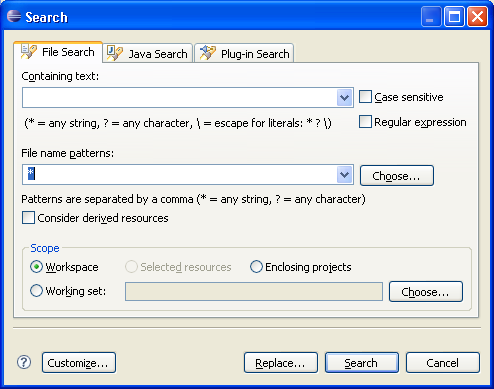
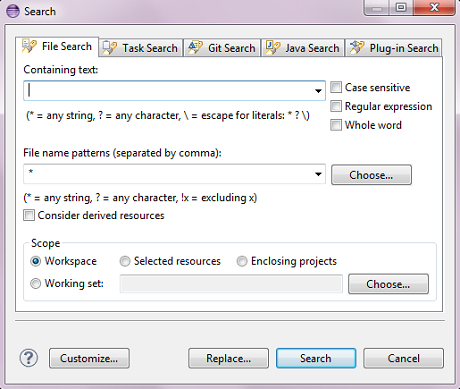
Bug 407385 - Update F1 Help and documentation for new features. Updated for Kepler(4.3) M1-M7 N&N features of JDT, Platform Text and Search.

diff --git a/bundles/org.eclipse.jdt.doc.user/reference/preferences/java/compiler/ref-preferences-errors-warnings.htm b/bundles/org.eclipse.jdt.doc.user/reference/preferences/java/compiler/ref-preferences-errors-warnings.htm
@@ -985,6 +985,23 @@ use raw types in the first place.</p>
 	</tr>
 	<tr>
 		<td valign="top" style="padding-left: 2em;">
+		<p>'@NonNull' parameter not annotated in overriding method</p>
+		</td>
+		<td valign="top">
+		<p>When enabled, the compiler will issue an error or a warning against a parameter of a method that overrides an inherited method if all of the following hold:</p>
+		<ul>
+		<li>The overridden method declares the corresponding parameter as non-null.</li>
+		<li>The parameter in the overriding method has no null annotation.</li>
+		<li>The overriding method is not affected by a nullness default.</li>
+		<li>Inheritance of null annotations is disabled.</li>
+		</ul>
+		</td>
+		<td valign="top">
+		<p>Warning</p>
+		</td>
+	</tr>
+	<tr>
+		<td valign="top" style="padding-left: 2em;">
 		<p>Missing '@NonNullByDefault' annotation on package</p>
 		</td>
 		<td valign="top">
@@ -1009,13 +1026,13 @@ use raw types in the first place.</p>
 		<p>You can specify different annotation names to use in your projects, but be aware that the Eclipse compiler only supports the semantics
 		specified in the default annotations:</p>
 		<ul>
-			<li><b>org.eclipse.jdt.annotation.Nullable</b>: A fully qualified name of a Java annotation type, which when applied to a type in a method signature or variable declaration, 
+			<li><b>org.eclipse.jdt.annotation.Nullable</b>: A fully qualified name of a Java annotation type, which when applied to a type in a method signature, variable declaration or field declaration, 
 				will be interpreted as a specification that null is a legal value in that position.<br>
-				Currently supported positions are: method parameters, method return type and local variables.
+				Currently supported positions are: method parameters, method return type, local variables and fields.
 			</li>
-			<li><b>org.eclipse.jdt.annotation.NonNull</b>: A fully qualified name of a Java annotation type, which when applied to a type in a method signature or variable declaration, 
+			<li><b>org.eclipse.jdt.annotation.NonNull</b>: A fully qualified name of a Java annotation type, which when applied to a type in a method signature, variable declaration or field declaration, 
 				will be interpreted as a specification that null is <b>not</b> a legal value in that position.<br>
-				Currently supported positions are: method parameters, method return type and local variables.
+				Currently supported positions are: method parameters, method return type, local variables and fields.
 			</li>
 			<li>
 				<b>org.eclipse.jdt.annotation.NonNullByDefault</b>: A fully qualified name of a Java annotation type. When applied to an element without an annotation argument, 
@@ -1042,6 +1059,18 @@ use raw types in the first place.</p>
 	 	  <p>If different implicit null annotations (from a nonnull default and/or overridden methods) are applicable
 	 		to the same type in a method signature, this is flagged as an error 
 	 		and an explicit null annotation must be used to disambiguate.</p>
+		</td>
+		<td valign="top">
+		<p>Off</p>
+		</td>
+	</tr>
+	<tr id="syntactic_null_analysis_for_fields">
+		<td valign="top" style="padding-left: 2em;">
+		<p>Enable syntactic null analysis for fields</p>
+		</td>
+		<td valign="top">
+		<p>When enabled, the compiler will detect certain syntactic constellations where a null related warning against a field reference 
+		would normally be raised but can be suppressed at low risk given that the same field reference was known to be non-null immediately before.</p>
 		</td>
 		<td valign="top">
 		<p>Off</p>

diff --git a/bundles/org.eclipse.jdt.doc.user/reference/ref-java-editor-quickassist.htm b/bundles/org.eclipse.jdt.doc.user/reference/ref-java-editor-quickassist.htm
@@ -101,6 +101,26 @@
 
         <tr>
           <td class="c3" width="15%">
+            Convert to if-!-return
+          </td>
+          <td class="c4" width="34%">
+            <code>if (x == 1) a();</code>
+          </td>
+          <td class="c3">
+            &gt;
+          </td>
+          <td class="c3" width="34%">
+            <code>if (x != 1) return; <br />
+           	a();
+            </code>
+          </td>
+          <td class="c3" width="15%">
+            On an 'if' statement
+          </td>
+        </tr>
+        
+        <tr>
+          <td class="c3" width="15%">
             Inverse boolean expression
           </td>
           <td class="c4" width="34%">
@@ -493,6 +513,36 @@
         </tr>
         <tr>
           <td class="c3" width="15%">
+            Convert if-else to switch
+          </td>
+          
+		  <td class="c3" width="34%">
+            <code>if (kind == 1) {<br />
+            &nbsp;&nbsp;return -1;<br />
+            } else if (kind == 2) {<br />
+            &nbsp;&nbsp;return -2;<br />
+            }</code>
+
+          </td>          
+          
+          <td class="c3">
+            &gt;
+          </td>
+
+		  <td class="c4" width="34%">
+            <code>switch (kind) {<br />
+
+            case 1: return -1;<br />
+            case 2: return -2;<br />
+            }</code>
+          </td>
+          
+          <td class="c3" width="15%">
+            On an 'if' statement
+          </td>
+        </tr>
+        <tr>
+          <td class="c3" width="15%">
             Add missing case statements on enums
           </td>
           <td class="c4" width="34%">
@@ -710,6 +760,24 @@
           </td>
           <td class="c3" width="15%">
             On blocks, if/while/for statements
+          </td>
+        </tr>
+        <tr>
+          <td class="c3" width="15%">
+            Combine to single String
+          </td>
+          <td class="c4" width="34%">
+            <code>String phrase= "one" + " two " + "three";</code>
+          </td>
+          <td class="c3">
+            &gt;
+          </td>
+          <td class="c3" width="34%">
+            <code>String phrase= "one two three";</code>
+          </td>
+
+          <td class="c3" width="15%">
+            On a string concatenation expression
           </td>
         </tr>
         <tr>

diff --git a/bundles/org.eclipse.jdt.doc.user/tasks/task-using_null_annotations.htm b/bundles/org.eclipse.jdt.doc.user/tasks/task-using_null_annotations.htm
@@ -87,6 +87,7 @@ for its enhanced null analysis (which is disabled by default):
 <li>Method parameter</li>
 <li>Method return (syntactically a method annotation is used here)</li>
 <li>Local variables</li>
+<li>Fields</li>
 <li><em>(more to come in the future)</em></li>
 </ul>
 <p><code>@NonNullByDefault</code> is supported for</p>
@@ -288,14 +289,13 @@ If we exclude the third option (un-annotated types) then the compiler can rigoro
 flag <em>every</em> unsafe usage.
 </p>
 <p>
-The current implementation has two major limitations with regard to this goal:
+The current implementation has a major limitation with regard to this goal:
 <ul>
-<li>Null annotations are not yet supported for fields.</li>
 <li>The Java syntax doesn't allow annotations in some relevant locations,
 	a limitation that is addressed by JSR-308 (scheduled for Java 8).</li>
 </ul>
 <p>
-As of today and despite the current limitations, the vision of fully specified and
+As of today and despite the current limitation, the vision of fully specified and
 completely checked programs has already some implications that shaped the current
 analysis and the errors/warnings reported by the compiler.
 The details will be presented by explaining the rules that the compiler checks

diff --git a/bundles/org.eclipse.jdt.doc.user/reference/views/ref-view-javadoc.htm b/bundles/org.eclipse.jdt.doc.user/reference/views/ref-view-javadoc.htm
@@ -17,6 +17,9 @@
     <p>
       The Javadoc view shows the Javadoc of the element selected in the Java editor or in a Java view.
 	</p>
+	<p>
+      You can also click individual package names displayed in the header to see a package's Javadoc.
+	</p>
     <table border="1" cellspacing="0" cellpadding="5" width="100%" summary="Outline view">
       <caption>
       Javadoc View commands:
@@ -83,6 +86,21 @@
           <td valign="top">
             <p>
               Links the Javadoc view's input with the selection in the Java editor or in a Java view.
+            </p>
+          </td>
+        </tr>
+ 		<tr>
+          <td valign="top">
+            <img src="../../images/org.eclipse.jdt.ui/elcl16/sync_broken.png" alt="Link with Selection (showing last valid input)"/>
+          </td>
+          <td valign="top">
+            <p>
+              Link with Selection (showing last valid input)
+            </p>
+          </td>
+          <td valign="top">
+            <p>
+              Indicates that the Javadoc view's content is no longer in sync with the current selection.
             </p>
           </td>
         </tr>

diff --git a/bundles/org.eclipse.jdt.doc.user/reference/ref-wizard-annotation.htm b/bundles/org.eclipse.jdt.doc.user/reference/ref-wizard-annotation.htm
@@ -48,7 +48,10 @@
         <td align="left" valign="top">Enter a package to contain the new annotation. You can select either this option or the Enclosing Type option, below. Either type a valid
         package name or click <span class="control">Browse</span> to select a package via a dialog.</td>
 
-        <td align="left" valign="top">The package of the element that was selected when the wizard has been started.</td>
+        <td align="left" valign="top">The package of the element that was selected when the wizard has been started.
+        If a source folder was selected which contains exactly one package then that package is used.
+		If the source folder does not contain any package then the project name is used if it is a valid package name.
+        </td>
       </tr>
 
       <tr>

diff --git a/bundles/org.eclipse.jdt.doc.user/reference/ref-wizard-interface.htm b/bundles/org.eclipse.jdt.doc.user/reference/ref-wizard-interface.htm
@@ -48,7 +48,10 @@
         <td align="left" valign="top">Enter a package to contain the new interface. You can select either this option or the Enclosing Type option, below. Either type a valid
         package name or click <span class="control">Browse</span> to select a package via a dialog.</td>
 
-        <td align="left" valign="top">The package of the element that was selected when the wizard has been started.</td>
+        <td align="left" valign="top">The package of the element that was selected when the wizard has been started.
+        If a source folder was selected which contains exactly one package then that package is used.
+		If the source folder does not contain any package then the project name is used if it is a valid package name.
+        </td>
       </tr>
 
       <tr>

diff --git a/bundles/org.eclipse.jdt.doc.user/reference/ref-wizard-class.htm b/bundles/org.eclipse.jdt.doc.user/reference/ref-wizard-class.htm
@@ -48,7 +48,10 @@
         <td align="left" valign="top">Enter a package to contain the new class. You can select either this option or the Enclosing Type option, below. Either type a valid package
         name or click <span class="control">Browse</span> to select a package via a dialog.</td>
 
-        <td align="left" valign="top">The package of the element that was selected when the wizard has been started.</td>
+        <td align="left" valign="top">The package of the element that was selected when the wizard has been started.
+        If a source folder was selected which contains exactly one package then that package is used.
+		If the source folder does not contain any package then the project name is used if it is a valid package name.
+        </td>
       </tr>
 
       <tr>

diff --git a/bundles/org.eclipse.jdt.doc.user/reference/ref-wizard-enum.htm b/bundles/org.eclipse.jdt.doc.user/reference/ref-wizard-enum.htm
@@ -48,7 +48,10 @@
         <td align="left" valign="top">Enter a package to contain the new enum. You can select either this option or the Enclosing Type option, below. Either type a valid package
         name or click <span class="control">Browse</span> to select a package via a dialog.</td>
 
-        <td align="left" valign="top">The package of the element that was selected when the wizard has been started.</td>
+        <td align="left" valign="top">The package of the element that was selected when the wizard has been started.
+        If a source folder was selected which contains exactly one package then that package is used.
+		If the source folder does not contain any package then the project name is used if it is a valid package name.
+        </td>
       </tr>
 
       <tr>

diff --git a/bundles/org.eclipse.jdt.doc.user/reference/ref-java-editor-quickfix.htm b/bundles/org.eclipse.jdt.doc.user/reference/ref-java-editor-quickfix.htm
@@ -248,6 +248,8 @@
               </li>
               <li>Create getter and setters for invisible or unused fields
               </li>
+              <li>Create loop variable to correct an incomplete enhanced 'for' loop by adding the type of the loop variable
+              </li>
             </ul>
           </td>
         </tr>
@@ -336,6 +338,8 @@
               <li>Remove redundant type arguments (1.7 or higher)
               </li>
               <li>Add inferred type arguments (1.5 and 1.6)
+              </li>
+              <li>Remove unused type parameter (1.5 or higher)
               </li>
               
             </ul>

diff --git a/bundles/org.eclipse.platform.doc.user/reference/ref-45.htm b/bundles/org.eclipse.platform.doc.user/reference/ref-45.htm
@@ -49,6 +49,12 @@ through for the specified expression.<br>
 <h2>Case sensitive</h2>
 <p>Turn this option on if you want the text search to be case sensitive.</p>
 
+<h2>Regular expression</h2>
+<p>Turn this option on to specify that the search text is a regular expression.</p>
+
+<h2>Whole word</h2>
+<p>Turn this option on if you want to search for whole words that are identical to the search text.</p>
+
 <h2>Scope</h2>
 <p>Choose the scope of your search. You can either search the whole workspace,
 pre-defined working sets, previously selected resources or projects enclosing

diff --git a/bundles/org.eclipse.jdt.doc.user/reference/ref-icons.htm b/bundles/org.eclipse.jdt.doc.user/reference/ref-icons.htm
@@ -1191,7 +1191,15 @@
           <td valign="top">
             ignored test<br>
           </td>
-        </tr>        
+        </tr>  
+         <tr>
+          <td valign="middle" align="center">
+            <img src="../images/org.eclipse.jdt.junit/obj16/testassumptionfailed.png"  alt="test with an assumption failure"><br>
+          </td>
+          <td valign="top">
+            test with an assumption failure<br>
+          </td>
+        </tr>       
         <tr>
           <td valign="top" rowspan="1" colspan="2">
             <br>

diff --git a/bundles/org.eclipse.platform.doc.user/reference/ref-dialog-open-resource.htm b/bundles/org.eclipse.platform.doc.user/reference/ref-dialog-open-resource.htm
@@ -79,7 +79,11 @@
     
     <p>
     The <b>Open</b> button opens the file with the default editor for the chosen file.
-    A different editor can be selected in the context menu on a file or in the drop-down button besides the <b>Open</b> button.
+    A different editor can be selected in the context menu on a file or in the <b>Open With</b> drop-down button.
+    </p>
+    
+    <p>
+    The <b>Show In</b> drop-down button can be used to show the chosen file in a view.
     </p>
     
     <p>
